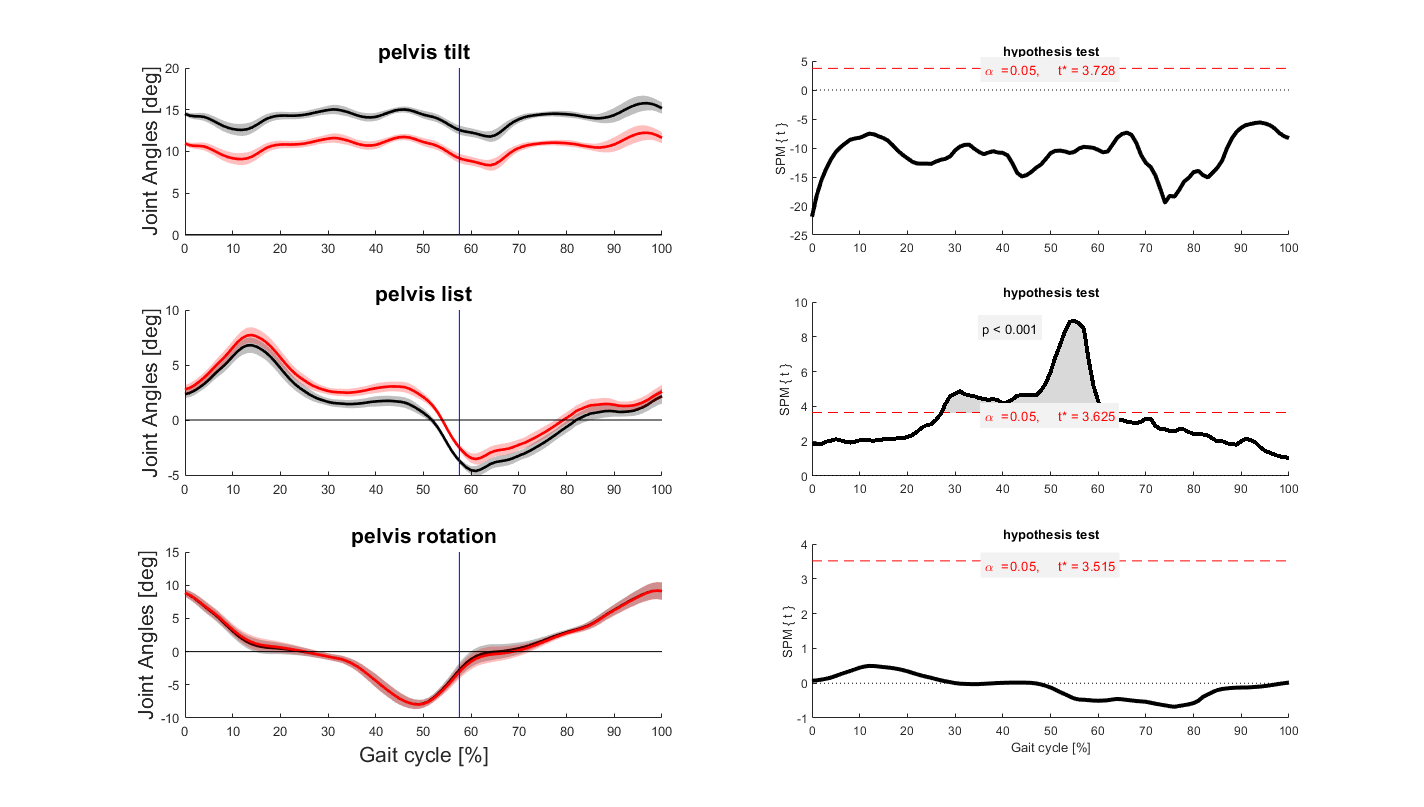
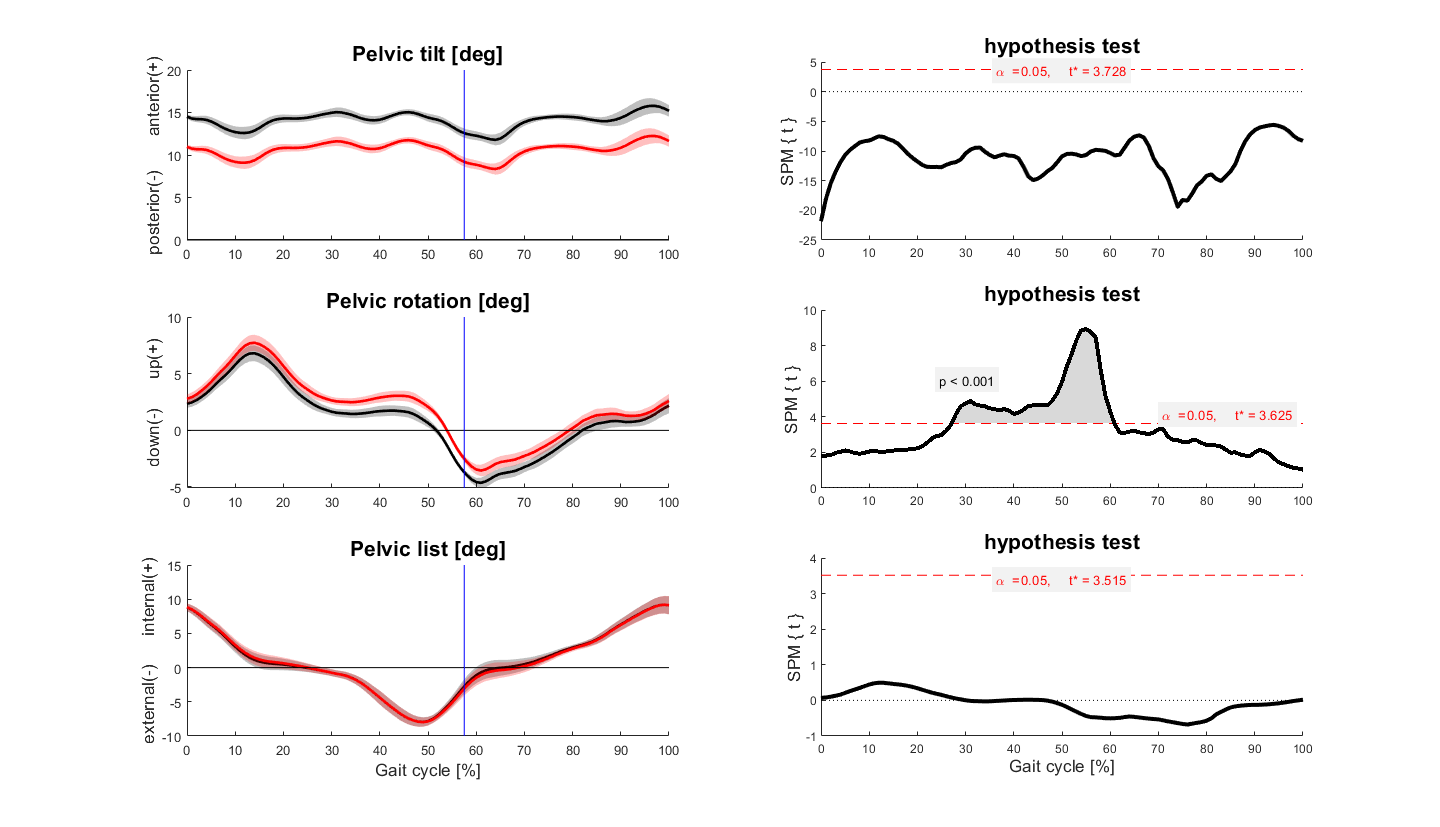
make plots nicer

diff --git a/suppl_mat_gait_sims_comparison/run_SPM_ttests.m b/suppl_mat_gait_sims_comparison/run_SPM_ttests.m
@@ -31,7 +31,7 @@ AxisFontWeight = 'bold';
 manual_model_ankle_offset = 4.234;
 % decide if you want to plot kinematics of kinetics
 what_to_plot = 'kinetics';
-what_to_plot = 'kinematics';
+% what_to_plot = 'kinematics';
 %---------------------------------------------------------------------------
 
 % create figure folder
@@ -53,13 +53,33 @@ switch what_to_plot
         autoResults   = autoSummary.KINEMATICS;
         list_comparisons = manualSummary.KINEMATICS.colheaders;
         % plot labels for kinematics
-        xlabel_set = {'Gait cycle [%]'};ylabel_set = {'Joint Angles [deg]','SPM \{ t \}','Joint Angles [deg]','SPM \{ t \}','Joint Angles [deg]','SPM \{ t \}'};
+        xlabel_set = {'Gait cycle [%]'};
+        ylabel_set = {  'posterior(-)       anterior(+)','SPM \{ t \}',...
+                        'down(-)      up(+)','SPM \{ t \}',...
+                        'external(-)      internal(+)','SPM \{ t \}',...
+                        'extension(-)     flexion(+)','SPM \{ t \}',...
+                        'abduction(-) adduction(+)','SPM \{ t \}',...
+                        'external(-)      internal(+)','SPM \{ t \}',...
+                        'extension(-)    flexion(+)','SPM \{ t \}',...
+                        'plantarflexion(-)  dorsiflexion(+)','SPM \{ t \}',...
+                        'eversion(-)  inversion(+)','SPM \{ t \}'};
+         title_set = {  'Pelvic tilt [deg]','Pelvic rotation [deg]','Pelvic list [deg]','Hip Flex/Extension [deg]','Hip Ad/Abduction [deg]',...
+                        'Hip Int/External rotation [deg]', 'Knee Flex/Extension [deg]','Ankle Dorsi/Plantarflexion [deg]', 'Subtalar Eversion/Inversion [deg]'};
     case 'kinetics'
         manualResults = manualSummary.KINETICS;
         autoResults   = autoSummary.KINETICS;
         list_comparisons = manualSummary.KINETICS.colheaders;
         % plot labels for kinetics
-        xlabel_set = {'Gait cycle [%]'};ylabel_set = {'Joint Moments [Nm/kg]','SPM \{ t \}','Joint Moments [Nm/kg]','SPM \{ t \}','Joint Moments [Nm/kg]','SPM \{ t \}'};
+        xlabel_set = {'Gait cycle [%]'};
+        ylabel_set = {'flexion(-)     extension(+)','SPM \{ t \}',... 
+                      'adduction(-)    abduction(+)','SPM \{ t \}',...
+                      'internal(-)     external(+)','SPM \{ t \}',...
+                      'flexion(-)     extension(+)','SPM \{ t \}',...
+                      'dorsiflexion(-)    plantarflexion(+)','SPM \{ t \}',...
+                      'inversion(-)  eversion(+)','SPM \{ t \}'};
+        title_set = {'Hip Flex/Extension Moment [Nm/kg]','Hip Ad/Abduction Moment [Nm/kg]',...
+                     'Hip Int/External Rotation Moment [Nm/kg]','Knee Flex/Extension Moment [Nm/kg]',...
+                     'Ankle Dorsi/Planta Moment [Nm/kg]', 'Subtalar Eversion/Inversion [Nm/kg]'};
 end
 
 % vector of toe offs from the simulated trials
@@ -70,7 +90,8 @@ ToeOffV = manualSummary.ToeOffV_R;
 figure_handle = figure('position', [0 0 1440 900]);
 n_fig=1;
 n_plot=1;
-
+n_label = 1;
+n_label_old = n_label;
 % list of variables to be compared
 Nc = numel(list_comparisons);
 
@@ -85,14 +106,14 @@ for n_met = 1:Nc
     
     % apply same offset of the manual model to the automated results
     % otherwise the comparison is not fair (even better would have been
-    % addinf it to the manual model)
+    % addinG it to the manual model)
     if strcmp(cur_var_name, 'ankle_angle') && strcmp(what_to_plot,'kinematics')
         YB=YB-manual_model_ankle_offset;
     end
     
     %(1) Conduct SPM analysis:
     spm       = spm1d.stats.ttest2(YB, YA);
-    spmi      = spm.inference(0.05, 'two_tailed', false, 'interp',true);
+    spmi      = spm.inference(0.05, 'two_tailed', true, 'interp',true);
     disp(spmi)
 %     spmi.clusters{:}
     
@@ -102,7 +123,7 @@ for n_met = 1:Nc
     spm1d.plot.plot_meanSD(YA, 'color','k'); hold on
     spm1d.plot.plot_meanSD(YB, 'color','r'); hold on
     % add title, zero line and toe off line
-    title(strrep(cur_var_name,'_',' '), 'FontSize', 16)
+    title(title_set{n_label}, 'FontSize', 16)
     plotHorizontalLine(gca, 0, 'k'); hold on
     plotVerticalLine(gca, mean(ToeOffV), 'b');
     box off
@@ -119,16 +140,18 @@ for n_met = 1:Nc
     % finalise and store figure if the subplot is complete
     if n_plot>6
         % add labels
-        addSubplotXYLabels(figure_handle, xlabel_set, ylabel_set, 16, 'normal')
+        addSubplotXYLabels(figure_handle, xlabel_set, ylabel_set(n_label_old:n_label*2), 13, 'normal')
         % save figure
-        set(figure_handle,'PaperPositionMode','Auto');
-        saveas(figure_handle, fullfile(figure_folder,['Suppl_',what_to_plot,'_Fig',num2str(n_fig),'.fig']));
+%         set(figure_handle,'PaperPositionMode','Auto');
+%         saveas(figure_handle, fullfile(figure_folder,['Suppl_',what_to_plot,'_Fig',num2str(n_fig),'.fig']));
         % modify/reinitialise flow control variables
         n_fig=n_fig+1;
         n_plot = 1;
+        n_label_old=n_label*2+1;
         % avoid generating figure if comparisons are over.
         if n_met<Nc
             figure_handle = figure('position', [0 0 1440 900]);
         end
     end
+    n_label = n_label+1;
 end
